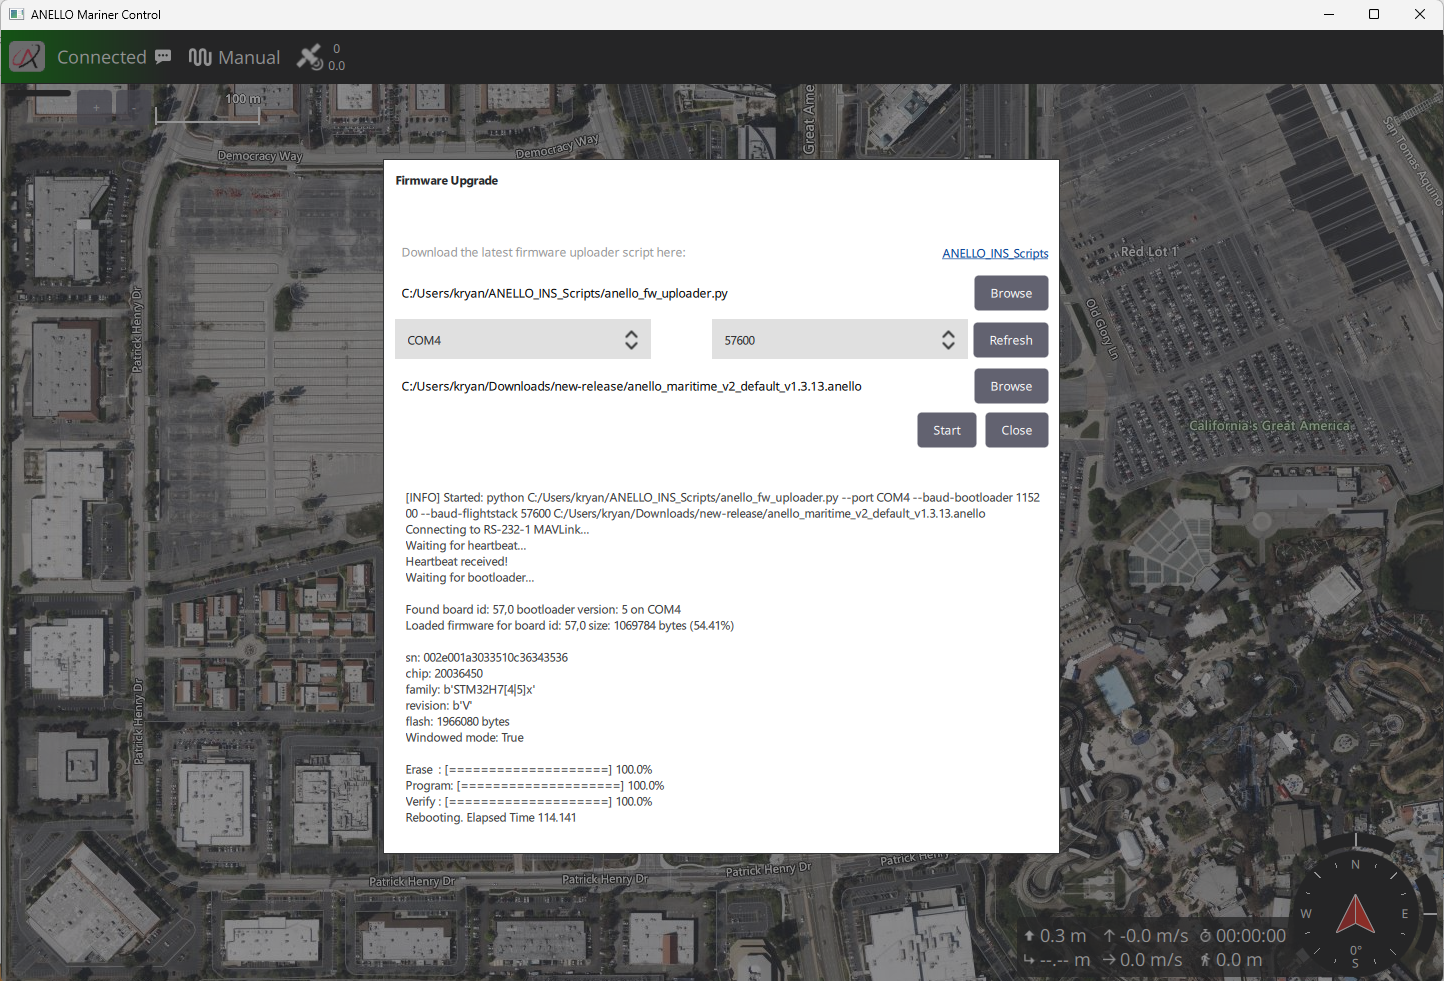
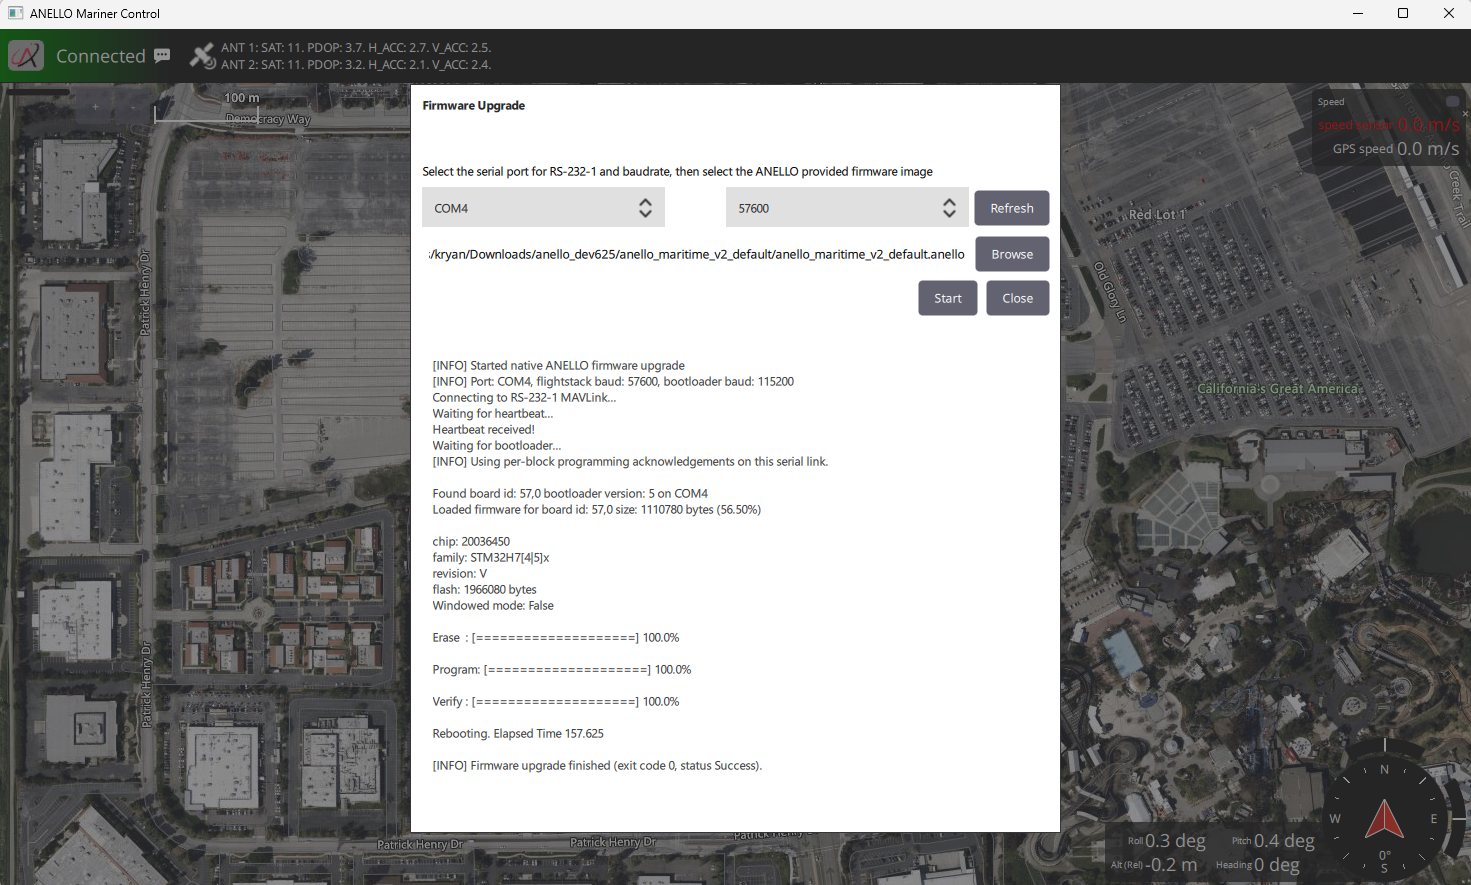
updated FW upgrade instructions for new AMC release

diff --git a/docs/fw_upgrade.rst b/docs/fw_upgrade.rst
@@ -38,9 +38,7 @@ If you experience any errors during the process, please power cycle the unit and
 Firmware Upgrade Procedure with AMarinerControl
 ---------------------------------------------------
 
-To upgrade FW using AMarinerControl, the ANELLO FW upgrade python script still needs to be downloaded from the following public Git repo: `ANELLO_INS_Scripts <https://github.com/Anello-Photonics/ANELLO_INS_Scripts.git>`__
-
-Also make sure your installation of `AMarinerControl <https://github.com/Anello-Photonics/amarinercontrol/releases/latest>`__ is v1.2.2 or higher. 
+To upgrade FW using AMarinerControl, make sure your installation of `AMarinerControl <https://github.com/Anello-Photonics/amarinercontrol/releases/latest>`__ is v1.4.1 or higher. 
 
 1. Connect RS-232-1 to the computer.
 2. Open AMarinerControl and select "Firmware Upgrade"
@@ -49,12 +47,11 @@ Also make sure your installation of `AMarinerControl <https://github.com/Anello-
    :width: 80%
    :align: center
 
-3. Download the ANELLO-provided FW image onto your local computer (Link also exists in AMarinerControl FW upgrade screen).
-4. Select firmware upgrade python script stored on local computer in first box.
-5. Select which connected serial port is RS-232-1 and select baudrate in drop down menus.
-6. Select path to downloaded firmware image on local computer in next box.
-7. Press "Start"
-8. After it completes, you will see "Rebooting. Elapsed Time x.x" - this means the FW upgrade was successful.
+3. Download the ANELLO-provided FW image onto your local computer.
+4. Select which connected serial port is RS-232-1 and select baudrate in drop down menus.
+5. Select path to downloaded firmware image on local computer using the "Browse" button.
+6. Press "Start"
+7. After it completes, you will see "[INFO] Firmware upgrade finished (exit code 0, status Success)." - this means the FW upgrade was successful.
 
 .. image:: media/FW_upgrade_AMC.png
    :width: 80%
